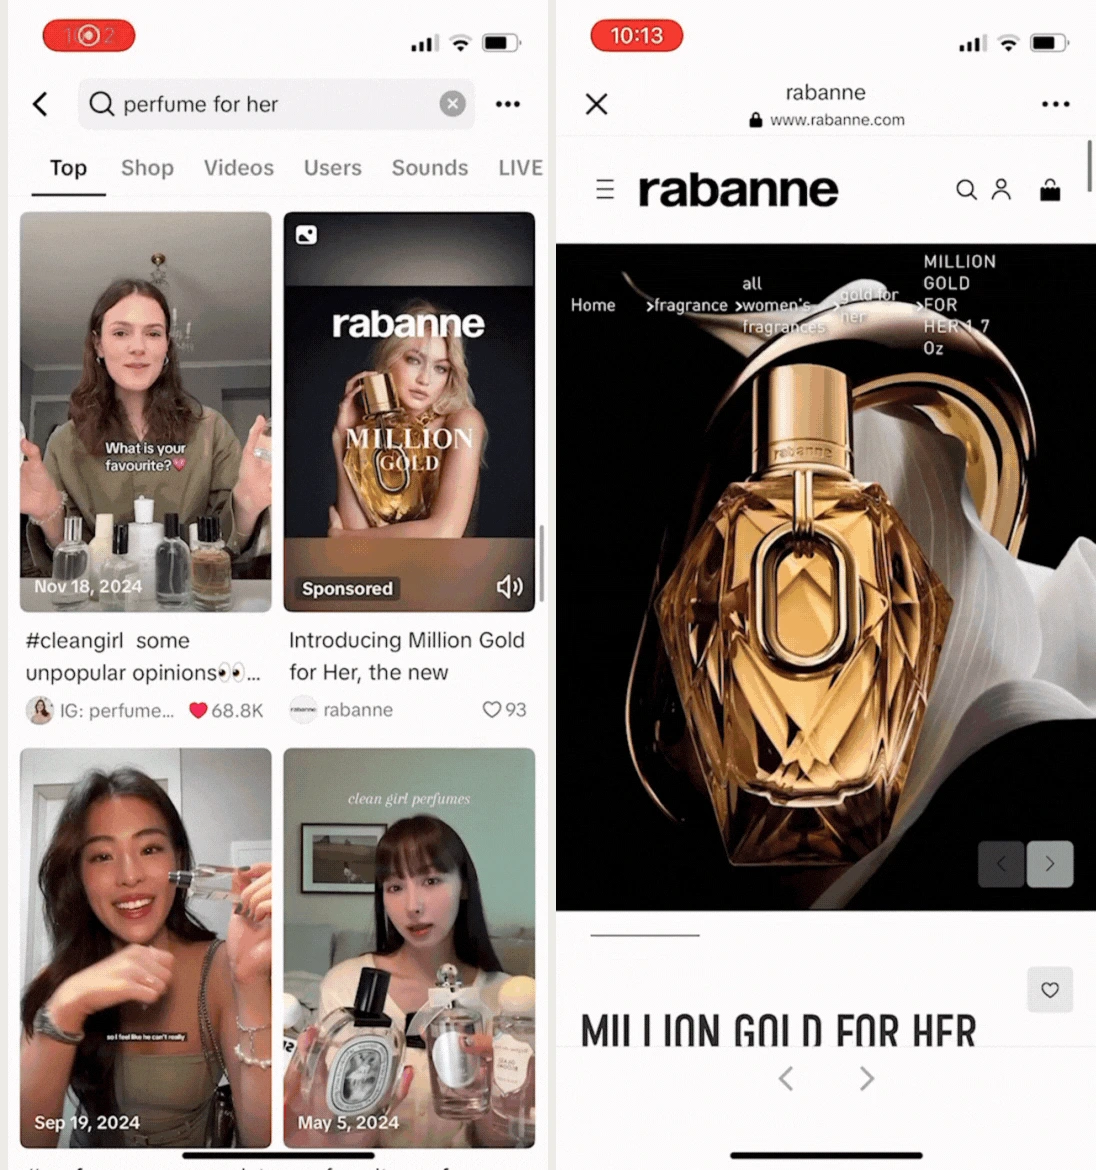
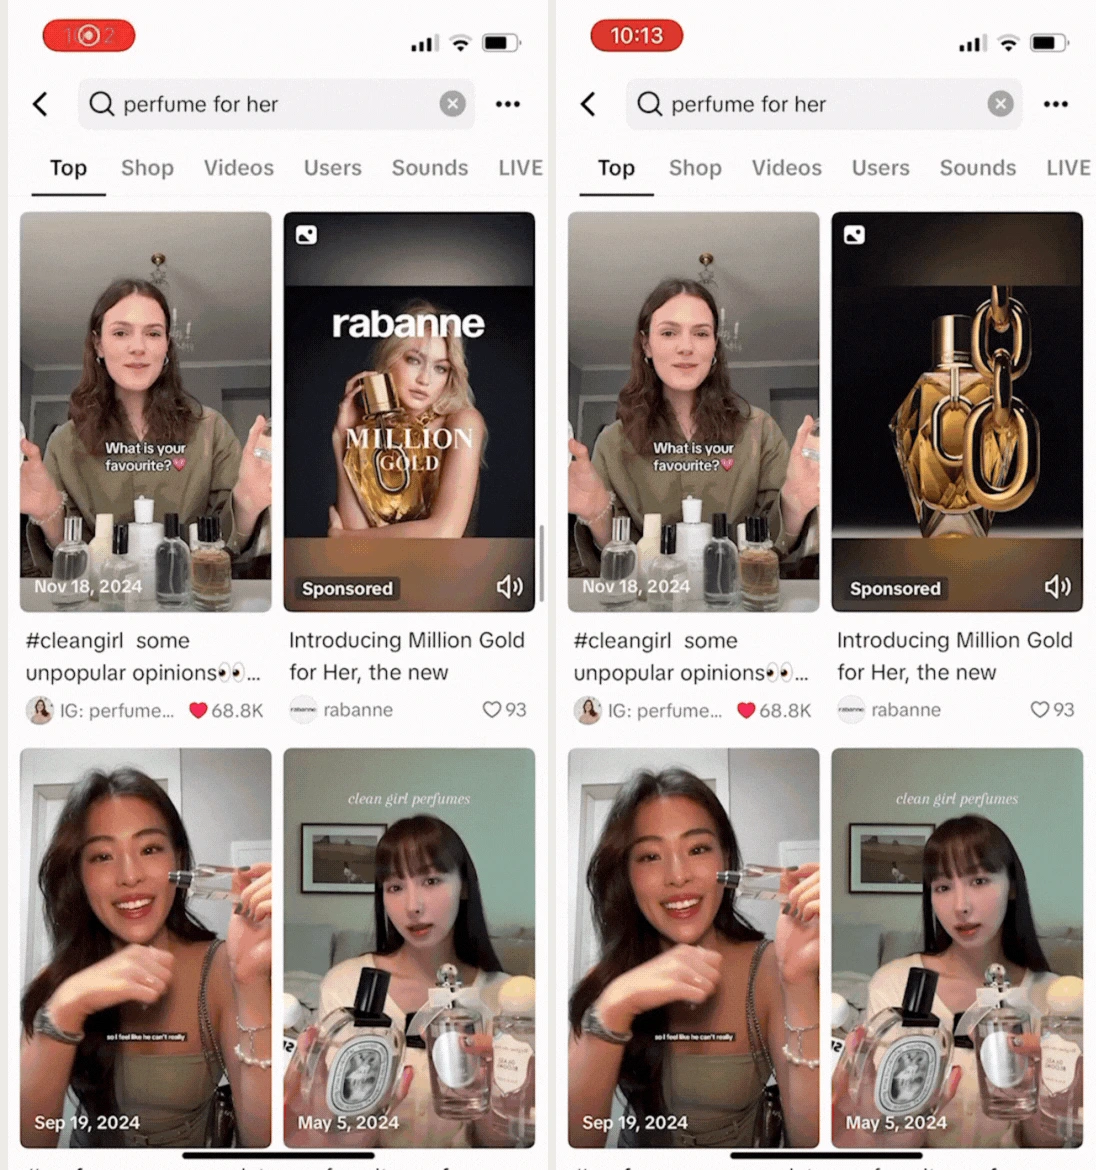
gh-196: Verify carousel frames and diagram semantics
Why
Each visual needs to agree with its caption and expose the same information
through its accessible reading order.

What
Use two confirmed Rabanne search results frames, point Advantage+ placements
to its own help article, and keep diagram terms and values in direct groups.

Validation
Decoded and inspected both carousel frames and linted the changed source.

diff --git a/src/components/adpi/feature-visual.tsx b/src/components/adpi/feature-visual.tsx
@@ -41,26 +41,27 @@ function DiagramPanel({ diagram, featureId }: { diagram: Diagram; featureId: str
           const selected = features.includes(featureId)
           return (
             <li key={cells.join("|")} className="border-b border-black/15 py-4 last:border-b-0 last:pb-0 dark:border-white/20">
-              <dl className={`grid gap-x-6 gap-y-2 sm:grid-cols-[1fr_1.25fr_1.2fr] sm:gap-x-8 ${flow ? "grid-cols-[1fr_1.2fr]" : ""}`}>
+              <dl className={`grid gap-x-6 sm:grid-cols-[1fr_1.25fr_1.2fr] sm:gap-x-8 sm:gap-y-2 ${flow ? "grid-cols-[1fr_1.2fr] gap-y-8" : "gap-y-2"}`}>
                 {cells.map((cell, index) => (
-                  <div key={columns[index]} className={`relative min-w-0 ${flow && index === 0 ? "col-span-2 sm:col-span-1" : ""}`}>
-                    <div className={`${flow && index === 0 ? "sm:h-full" : "h-full"} ${flow ? "rounded-md border border-black/15 bg-white/70 p-3 dark:border-white/15 dark:bg-black/20" : ""}
-                      ${selected && index === 0 ? "border-l-2 border-l-[#a94028] pl-2.5 dark:border-l-[#ff997c]" : ""}
-                      ${scope && index === 1 ? "rounded-sm border border-dashed border-black/25 px-2.5 py-1.5 dark:border-white/25" : ""}`}>
-                      <dt className="mb-0.5 font-mono text-[0.68rem] font-semibold uppercase tracking-wide opacity-75 sm:sr-only">{columns[index]}</dt>
-                      <dd className={`text-sm leading-snug ${index === 0 ? "font-semibold" : ""} ${index === 2 && selected ? "font-semibold text-[#8e321d] dark:text-[#ffb099]" : ""}`}>
-                        {cell}
-                        {index === 2 && outputImage && (
-                          <Image src={`${imageDirectory}/${outputImage}`} width={160} height={120} alt="" unoptimized className="mt-2 h-auto w-24 rounded" />
-                        )}
-                      </dd>
-                    </div>
-                    {flow && index < 2 && (
-                      <>
-                        <ArrowRight aria-hidden="true" className={`absolute top-1/2 size-4 -translate-y-1/2 opacity-55 sm:-right-6 sm:block ${index === 0 ? "hidden" : "-right-5"}`} />
-                        {index === 0 && <ArrowDown aria-hidden="true" className="mx-auto mt-2 size-4 opacity-55 sm:hidden" />}
-                      </>
-                    )}
+                  <div key={columns[index]} className={`relative min-w-0
+                    ${flow ? "rounded-md border border-black/15 bg-white/70 p-3 dark:border-white/15 dark:bg-black/20" : ""}
+                    ${flow && index === 0 ? "col-span-2 sm:col-span-1" : ""}
+                    ${selected && index === 0 ? "border-l-2 border-l-[#a94028] pl-2.5 dark:border-l-[#ff997c]" : ""}
+                    ${scope && index === 1 ? "rounded-sm border border-dashed border-black/25 px-2.5 py-1.5 dark:border-white/25" : ""}`}>
+                    <dt className="mb-0.5 font-mono text-[0.68rem] font-semibold uppercase tracking-wide opacity-75 sm:sr-only">{columns[index]}</dt>
+                    <dd className={`text-sm leading-snug ${index === 0 ? "font-semibold" : ""} ${index === 2 && selected ? "font-semibold text-[#8e321d] dark:text-[#ffb099]" : ""}`}>
+                      {cell}
+                      {selected && index === 0 && <span className="sr-only"> (Covered in this guide)</span>}
+                      {index === 2 && outputImage && (
+                        <Image src={`${imageDirectory}/${outputImage}`} width={358} height={480} alt="" unoptimized className="mt-2 h-auto w-24 rounded" />
+                      )}
+                      {flow && index < 2 && (
+                        <>
+                          <ArrowRight aria-hidden="true" className={`absolute top-1/2 size-4 -translate-y-1/2 opacity-55 sm:-right-6 sm:block ${index === 0 ? "hidden" : "-right-5"}`} />
+                          {index === 0 && <ArrowDown aria-hidden="true" className="absolute -bottom-6 left-1/2 size-4 -translate-x-1/2 opacity-55 sm:hidden" />}
+                        </>
+                      )}
+                    </dd>
                   </div>
                 ))}
               </dl>

diff --git a/src/lib/adpi/visual-diagrams.ts b/src/lib/adpi/visual-diagrams.ts
@@ -186,7 +186,7 @@ export const diagrams: Diagram[] = [
       { features: [], cells: ["Manual placements", "You pick from eligible placements", "Meta delivers within your selection"] },
     ],
     sources: [
-      { label: "About Advantage+ placements", url: "https://www.facebook.com/business/help/437348354643456" },
+      { label: "About Advantage+ placements", url: "https://www.facebook.com/business/help/965529646866485" },
     ],
   },
   {
